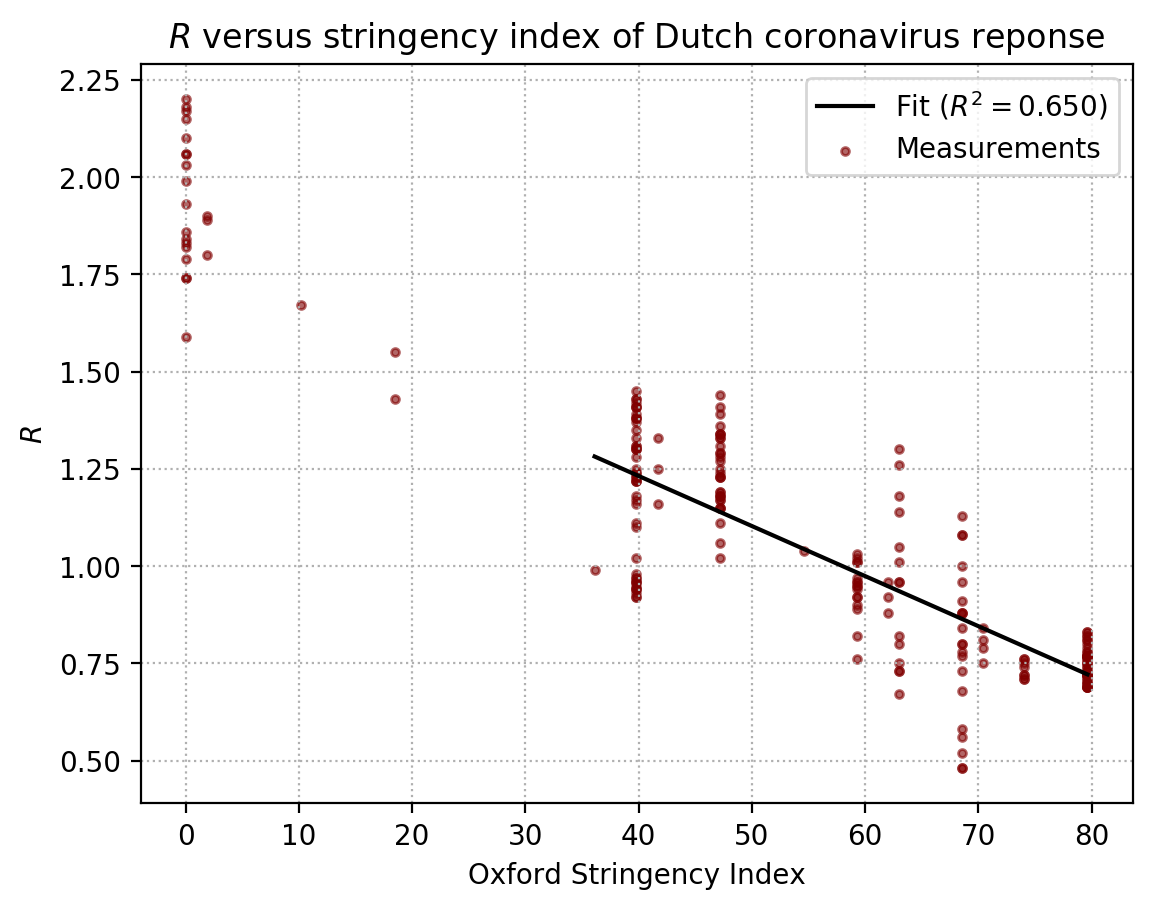
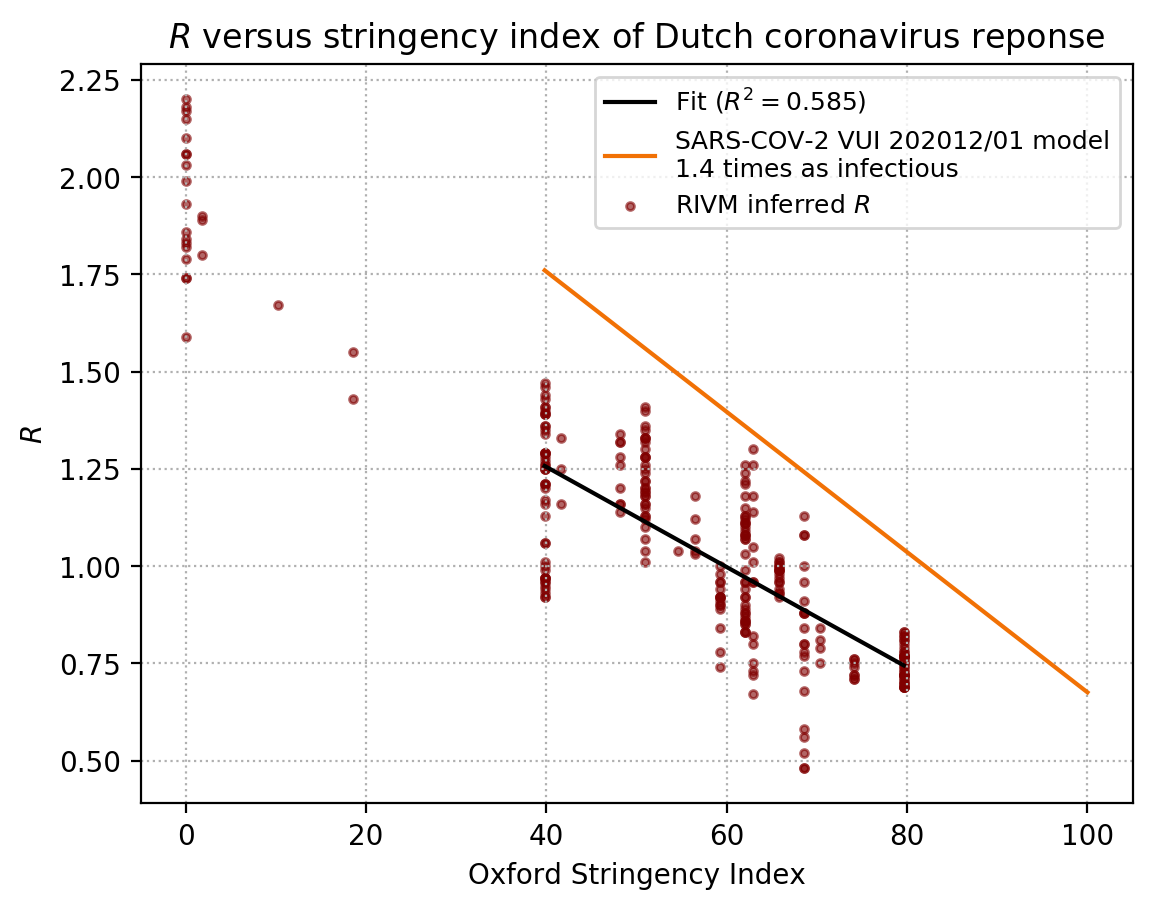
Added an estimate of the stringency required for the new SARS-COV-2 VUI 202012/01 strain

diff --git a/model_coronavirus_supression.py b/model_coronavirus_supression.py
@@ -1746,7 +1746,7 @@ def government_response_results_SEIRD():
 	plt.savefig(f'{plotloc_government_response}Government_response_outcome_complex.png', dpi = 200, bbox_inches = 'tight')
 	plt.close()
 
-def stringency_R_correlation():
+def stringency_R_correlation(enddate = '2020-11-26'):
 	df_response = load_government_response_data()
 	df_prevalence, df_R0 = load_prevalence_R0_data()
 
@@ -1754,7 +1754,7 @@ def stringency_R_correlation():
 	df_reponse_results = df_response.merge(df_R0[['Rt_avg']], right_index = True, left_index = True)
 
 	#select date range
-	mask = (df_reponse_results.index > '2020-02-16') & (df_reponse_results.index <= '2020-09-18')
+	mask = (df_reponse_results.index > '2020-02-16') & (df_reponse_results.index <= enddate)
 	df_reponse_results = df_reponse_results.loc[mask]
 
 	### fit a linear model
@@ -1769,17 +1769,23 @@ def stringency_R_correlation():
 	### plot results
 	fig, ax = plt.subplots()
 
-	ax.scatter(df_reponse_results['StringencyIndex'], df_reponse_results['Rt_avg'], color = 'maroon', alpha = 0.6, s = 8, label = 'Measurements')
+	ax.scatter(df_reponse_results['StringencyIndex'], df_reponse_results['Rt_avg'], color = 'maroon', alpha = 0.6, s = 8, label = 'RIVM inferred $R$')
 
 	#plot the model
 	xpoints = np.linspace(np.min(df_reponse_results.loc[high_stringency_mask]['StringencyIndex']), np.max(df_reponse_results.loc[high_stringency_mask]['StringencyIndex']), num = 500)
 	ax.plot(xpoints, linear_model(xpoints, *popt), label = r'Fit ($R^2 = $' + f'{r_squared:0.03f})', color = 'black')
 
+	### now plot the effects of a variant which is more infectious
+	infectious_increase_factor = 1.4
+	xpoints = np.linspace(np.min(df_reponse_results.loc[high_stringency_mask]['StringencyIndex']), 100, num = 500)
+	ax.plot(xpoints, linear_model(xpoints, *popt) * infectious_increase_factor, label = f'SARS-COV-2 VUI 202012/01 model\n{infectious_increase_factor} times as infectious', color = betterorange)
+
+
 	ax.set_xlabel('Oxford Stringency Index')
 	ax.set_ylabel(f'$R$')
 
 	ax.grid(linestyle = ':')
-	ax.legend(loc = 'best')
+	ax.legend(loc = 'best', prop={'size': 9})
 
 	ax.set_title(r'$R$ versus stringency index of Dutch coronavirus reponse')
 
@@ -2290,7 +2296,7 @@ def estimate_recent_prevalence(enddate_train = '2020-11-01', smoothsize = 5):
 def main():
 	# government_response_results_simple()
 	# plot_hospitalization()
-	# stringency_R_correlation()
+	stringency_R_correlation()
 	# plot_superspreader_events()
 	# plot_R_versus_weather()
 
